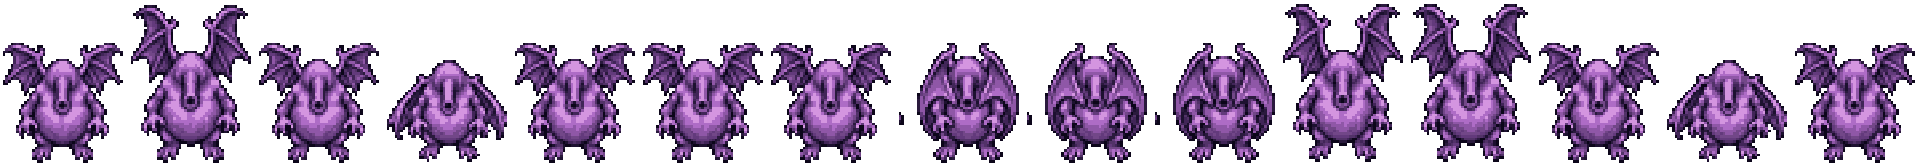
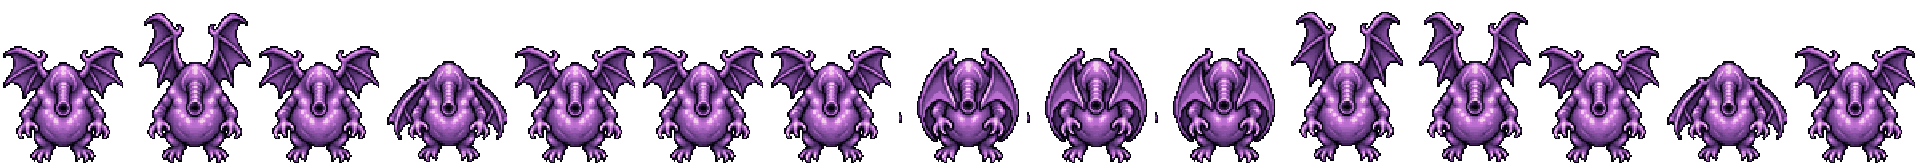
Balance Starvamp pixel density with existing enemies

diff --git a/tools/build_starvamp_sheets.py b/tools/build_starvamp_sheets.py
@@ -12,21 +12,21 @@ INK = (25, 14, 34, 255)
 SOURCE_GRID = SOURCE / "starvamp_pixel_poses.png"
 POSE_CROPS = (
     (0, 0, 548, 805),
-    (548, 0, 1095, 805),
+    (548, 0, 1094, 805),
     (0, 805, 548, 1437),
-    (548, 805, 1095, 1437),
+    (548, 805, 1094, 1437),
 )
 
 
 def native(grid: Image.Image, crop: tuple[int, int, int, int]) -> Image.Image:
-    """Reduce a complete pose to a 48x63 drawing grid."""
+    """Reduce a complete pose to an 80x105 drawing grid."""
     panel = grid.crop(crop)
     alpha = panel.getchannel("A").point(lambda value: 255 if value >= 128 else 0)
     bounds = alpha.getbbox()
     if bounds is None:
         raise ValueError(f"Empty Starvamp pose: {crop}")
     panel = panel.crop(bounds)
-    scale = min(45 / panel.width, 59 / panel.height)
+    scale = min(75 / panel.width, 98 / panel.height)
     width, height = round(panel.width * scale), round(panel.height * scale)
     matte = Image.new("RGB", panel.size, INK[:3])
     matte.paste(panel.convert("RGB"), mask=panel.getchannel("A"))
@@ -35,8 +35,8 @@ def native(grid: Image.Image, crop: tuple[int, int, int, int]) -> Image.Image:
     shape = shape.point(lambda value: 255 if value >= 120 else 0)
     sprite = color.convert("RGBA")
     sprite.putalpha(shape)
-    tiny = Image.new("RGBA", (48, 63))
-    tiny.alpha_composite(sprite, ((48 - width) // 2, 63 - height - 2))
+    tiny = Image.new("RGBA", (80, 105))
+    tiny.alpha_composite(sprite, ((80 - width) // 2, 105 - height - 3))
     return tiny
 
 
@@ -47,7 +47,7 @@ def palette_for(images: list[Image.Image]) -> Image.Image:
                        in image.get_flattened_data() if a)
     samples = Image.new("RGB", (len(visible), 1))
     samples.putdata(visible)
-    return samples.quantize(colors=10, method=Image.Quantize.MEDIANCUT)
+    return samples.quantize(colors=26, method=Image.Quantize.MEDIANCUT)
 
 
 def palette_map(image: Image.Image, palette: Image.Image) -> Image.Image:
@@ -75,7 +75,7 @@ def effect(frame: int, cards: Image.Image) -> Image.Image:
 
 def main() -> None:
     # Complete poses preserve the wing membranes and shoulder attachment.
-    # Ten shared colors on a 48x63 grid keep the body visibly pixelated.
+    # A shared 26-color palette on an 80x105 grid matches other enemy sprites.
     grid = Image.open(SOURCE_GRID).convert("RGBA")
     sources = [native(grid, crop) for crop in POSE_CROPS]
     palette = palette_for(sources)
